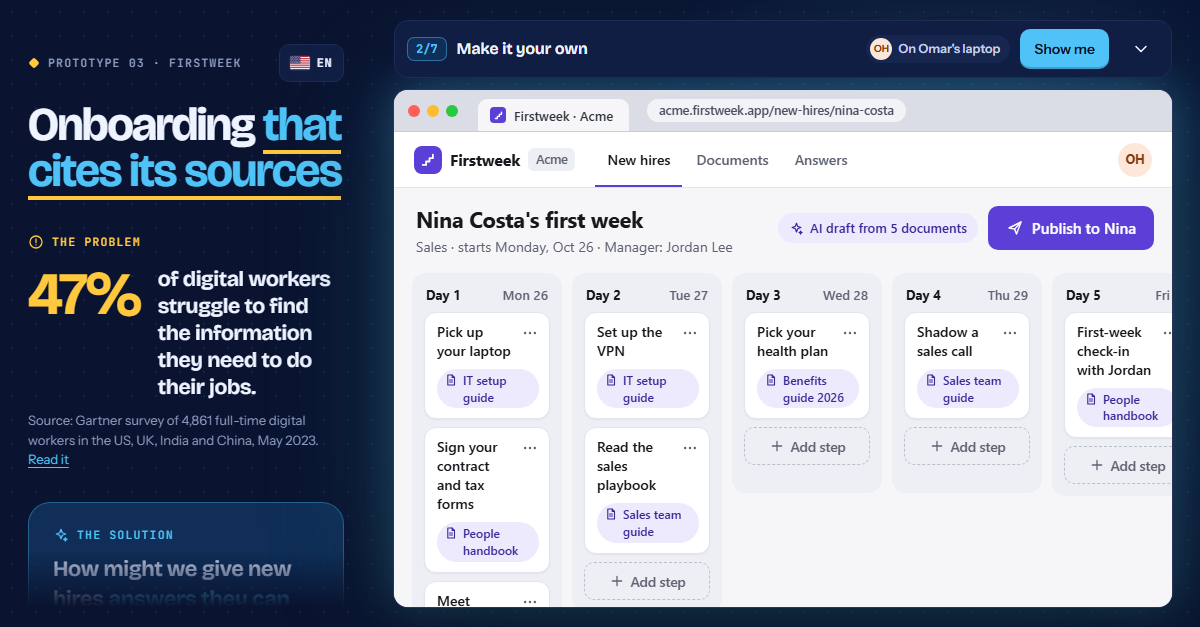
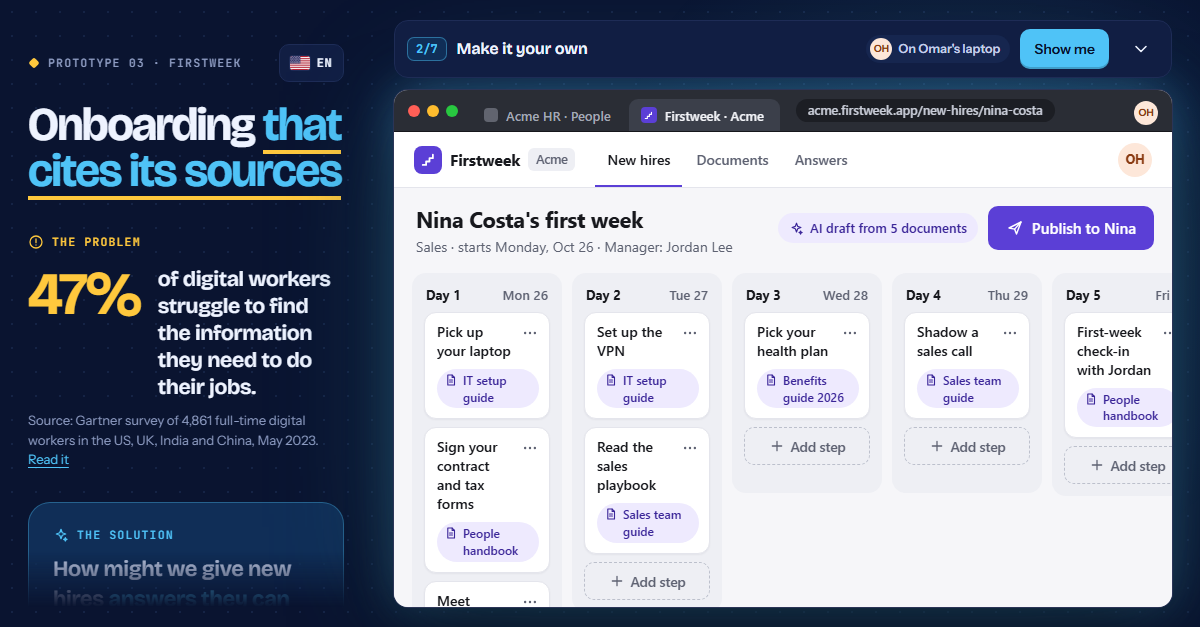
Omar and Nina each get their own computer
Omar's laptop is a dark Mac-style window with Acme's HR tab open; Nina's is a
light blue Windows-style one with a welcome tab. Each shows its owner's avatar.
The sample handbook says "the HR portal" instead of a real product name, and
the social image shows the new window.

Changed region(s): [[0.3083, 0.1212, 0.9867, 0.2121]]

diff --git a/index.html b/index.html
@@ -73,15 +73,33 @@ body{overflow:auto;background:radial-gradient(var(--dot) 1px,transparent 1.3px) 
 /* Try it: the window's glow swells once and settles, to say "over here" */
 .browser.look{animation:look 1.3s ease-in-out}
 @keyframes look{35%{box-shadow:0 0 0 2px var(--neon),0 40px 90px rgba(0,0,0,.5),0 0 64px 4px rgba(79,195,247,.7),0 0 160px 10px rgba(79,195,247,.4)}}
-.b-bar{flex:none;display:flex;align-items:flex-end;gap:10px;height:42px;padding:0 14px;background:#DADDE6;border-bottom:1px solid #C9CDD8}
+/* each laptop is its own computer: Omar's a dark Mac-style window, Nina's a light blue Windows-style one,
+   each with its own other tab open and its owner's avatar */
+.browser{--chrome:#DADDE6;--chrome-line:#C9CDD8;--tab-bg:var(--bg);--tab-ink:#30343C;--tab-dim:#5A5F6B;--url-bg:#F2F3F7;--url-ink:#4B4F5C}
+.browser.is-omar{--chrome:#2A2D35;--chrome-line:#16171C;--tab-bg:#3B3F4A;--tab-ink:#F2F3F7;--tab-dim:#A3A8B5;--url-bg:#1C1E24;--url-ink:#C9CDD8}
+.browser.is-nina{--chrome:#DCE6F7;--chrome-line:#C3D1EC;--tab-bg:#FFFFFF;--tab-ink:#1D2A44;--tab-dim:#55627E;--url-bg:#FFFFFF;--url-ink:#3B4A66}
+.b-bar{flex:none;display:flex;align-items:flex-end;gap:10px;height:42px;padding:0 14px;background:var(--chrome);border-bottom:1px solid var(--chrome-line);transition:background-color .4s,border-color .4s}
 .b-dots{display:flex;gap:7px;align-self:center}
 .b-dots i{width:12px;height:12px;border-radius:50%;background:#FF5F57}
 .b-dots i:nth-child(2){background:#FEBC2E}
 .b-dots i:nth-child(3){background:#28C840}
-.b-tab{display:flex;align-items:center;gap:8px;margin-left:10px;height:32px;padding:0 16px 0 12px;border-radius:9px 9px 0 0;background:var(--bg);font:600 13px/1 var(--font);color:#30343C}
+.b-tabs{display:flex;gap:2px;margin-left:4px;min-width:0}
+.b-tab{display:flex;align-items:center;gap:8px;height:32px;padding:0 16px 0 12px;border-radius:9px 9px 0 0;background:var(--tab-bg);font:600 13px/1 var(--font);color:var(--tab-ink);white-space:nowrap}
+.b-tab.dim{background:transparent;color:var(--tab-dim);font-weight:500}
 .b-tab .mini-logo{display:grid;place-items:center;width:16px;height:16px;border-radius:4px;background:var(--brand);color:#fff}
 .b-tab .mini-logo svg{width:11px;height:11px}
-.b-url{align-self:center;margin-left:8px;padding:5px 12px;border-radius:999px;background:#F2F3F7;font:500 12.5px/1 var(--font);color:#4B4F5C;white-space:nowrap;overflow:hidden;text-overflow:ellipsis;min-width:0}
+.b-tab .tab-ic{width:14px;height:14px;border-radius:4px;background:currentColor;opacity:.45}
+.b-url{align-self:center;margin-left:6px;padding:5px 12px;border-radius:999px;background:var(--url-bg);font:500 12.5px/1 var(--font);color:var(--url-ink);white-space:nowrap;overflow:hidden;text-overflow:ellipsis;min-width:0}
+.b-who{align-self:center;margin-left:auto}
+.b-who .mini-av{width:24px;height:24px}
+/* Windows-style controls: minimize, maximize, close */
+.b-win{display:flex;align-self:stretch;margin:0 -14px 0 0}
+.b-win i{position:relative;width:42px;color:var(--tab-dim)}
+.b-win i::before,.b-win i::after{content:"";position:absolute;left:50%;top:50%;transform:translate(-50%,-50%)}
+.b-win .min::before{width:10px;height:1.5px;background:currentColor}
+.b-win .max::before{width:9px;height:9px;border:1.5px solid currentColor;border-radius:1px}
+.b-win .x::before,.b-win .x::after{width:12px;height:1.5px;background:currentColor;transform:translate(-50%,-50%) rotate(45deg)}
+.b-win .x::after{transform:translate(-50%,-50%) rotate(-45deg)}
 .screen{position:relative;flex:1;min-height:0;overflow:hidden;background:var(--bg);color:var(--ink);font:15px/1.5 var(--font);container:app/inline-size}
 
 /* ================= Context (left) ================= */
@@ -573,7 +591,7 @@ mark{padding:1px 2px;border-radius:3px;background:var(--brand-soft);color:inheri
   <main class="stage" id="stage">
     <aside class="guide" id="guide" aria-label="How to try this prototype"></aside>
     <div class="browser" id="browser">
-      <div class="b-bar" aria-hidden="true"><span class="b-dots"><i></i><i></i><i></i></span><span class="b-tab"><span class="mini-logo"><svg viewBox="0 0 24 24" fill="none" stroke="currentColor" stroke-width="3" stroke-linecap="round" stroke-linejoin="round"><path d="M5 18.5h4.5V14H14V9.5h4.5V5"/></svg></span>Firstweek · Acme</span><span class="b-url" id="b-url">acme.firstweek.app/new-hires/nina-costa</span></div>
+      <div class="b-bar" id="b-bar" aria-hidden="true"></div>
       <div class="screen" id="screen">
         <div class="app" id="app" role="region" aria-label="Firstweek"></div>
         <div class="toast" id="toast" aria-hidden="true"><svg class="i" viewBox="0 0 24 24" aria-hidden="true"><path d="M5 12.5l4.5 4.5L19 7.5"/></svg><span></span></div>
@@ -655,7 +673,7 @@ const STR = {
     srcTitle: 'Where this step came from', backToDocs: 'All documents', srcNote: 'The AI wrote this step from this passage. Edit the step and the document stays as it is.',
     s_laptop: 'Pick up your laptop', s_contract: 'Sign your contract and tax forms', s_meet: 'Meet Jordan, your manager', s_vpn: 'Set up the VPN', s_playbook: 'Read the sales playbook', s_health: 'Pick your health plan', s_shadow: 'Shadow a sales call', s_checkin: 'First-week check-in with Jordan',
     doc_handbook: 'People handbook', doc_vacation: 'Vacation policy update', doc_it: 'IT setup guide', doc_benefits: 'Benefits guide 2026', doc_sales: 'Sales team guide',
-    h_contract: 'Your first day', p_contract: 'On your first day, sign your employment contract and tax forms in Workday. Your People partner sends the links before you start.',
+    h_contract: 'Your first day', p_contract: 'On your first day, sign your employment contract and tax forms in the HR portal. Your People partner sends the links before you start.',
     h_vacation: 'Vacation', p_vac_old: 'Full-time employees get 15 vacation days a year, plus public holidays.',
     h_checkin: 'Your first week', p_checkin: 'At the end of the first week, new hires meet their manager to talk about what is working and what comes next.',
     h_dogs: 'Dogs at the office', p_dogs: 'Dogs are welcome in the office on Fridays, if your team agrees. Ask the office manager about the dog-friendly floor.',
@@ -688,6 +706,7 @@ const STR = {
     jFrom: 'Jordan Lee · a person, not a document', jReply: 'Yes, on Fridays, if your team agrees. Ask the office manager about the dog-friendly floor.',
     jReplyGeneric: 'Good question. Let me find out, and I’ll get back to you today.', jToast: '{manager} answered.',
     docSource: 'Source', docClose: 'Close the document', citedTag: 'The part the answer used',
+    tabHr: 'Acme HR · People', tabWelcome: 'Welcome to Acme!',
     switchOmar: "Omar's laptop", switchNina: "Nina's laptop", whenMon: 'Monday, Oct 26 · 9:02 AM', whenLater: 'Monday, Oct 26 · 9:20 AM',
     close: 'Close'
   },
@@ -736,7 +755,7 @@ const STR = {
     srcTitle: 'De onde veio esta etapa', backToDocs: 'Todos os documentos', srcNote: 'A IA escreveu esta etapa a partir deste trecho. Se você editar a etapa, o documento continua igual.',
     s_laptop: 'Retirar o notebook', s_contract: 'Assinar o contrato e os documentos fiscais', s_meet: 'Conhecer o Jordan, seu gestor', s_vpn: 'Configurar a VPN', s_playbook: 'Ler o playbook de vendas', s_health: 'Escolher o plano de saúde', s_shadow: 'Acompanhar uma ligação de vendas', s_checkin: 'Conversa de fim de semana com o Jordan',
     doc_handbook: 'Manual de Pessoas', doc_vacation: 'Atualização da política de férias', doc_it: 'Guia de configuração de TI', doc_benefits: 'Guia de benefícios 2026', doc_sales: 'Guia do time de vendas',
-    h_contract: 'Seu primeiro dia', p_contract: 'No primeiro dia, assine o contrato de trabalho e os documentos fiscais no Workday. Sua pessoa de referência em Pessoas manda os links antes de você começar.',
+    h_contract: 'Seu primeiro dia', p_contract: 'No primeiro dia, assine o contrato de trabalho e os documentos fiscais no portal de RH. Sua pessoa de referência em Pessoas manda os links antes de você começar.',
     h_vacation: 'Férias', p_vac_old: 'Funcionários em tempo integral têm 15 dias de férias por ano, além dos feriados.',
     h_checkin: 'Sua primeira semana', p_checkin: 'No fim da primeira semana, quem chegou conversa com o gestor sobre o que está funcionando e o que vem a seguir.',
     h_dogs: 'Cachorros no escritório', p_dogs: 'Cachorros são bem-vindos no escritório às sextas, se o seu time concordar. Fale com a gerência do escritório sobre o andar que aceita cachorros.',
@@ -769,6 +788,7 @@ const STR = {
     jFrom: 'Jordan Lee · uma pessoa, não um documento', jReply: 'Pode sim, às sextas, se o seu time concordar. Fale com a gerência do escritório sobre o andar que aceita cachorros.',
     jReplyGeneric: 'Boa pergunta. Vou descobrir e te respondo hoje.', jToast: '{manager} respondeu.',
     docSource: 'Fonte', docClose: 'Fechar o documento', citedTag: 'O trecho que a resposta usou',
+    tabHr: 'RH da Acme · Pessoas', tabWelcome: 'Boas-vindas à Acme!',
     switchOmar: 'Notebook do Omar', switchNina: 'Notebook da Nina', whenMon: 'Segunda, 26 out · 9h02', whenLater: 'Segunda, 26 out · 9h20',
     close: 'Fechar'
   }
@@ -1302,7 +1322,19 @@ function renderApp() {
   const f = (state.focus && app.querySelector(state.focus)) || (fk && app.querySelector(fk));
   state.focus = null;
   if (f) f.focus({ preventScroll: true });
-  $('#b-url').textContent = state.role === 'omar' ? 'acme.firstweek.app/new-hires/nina-costa' : 'acme.firstweek.app/my-first-week';
+  renderChrome();
+}
+/* the window around the app says whose computer it is */
+function renderChrome() {
+  const role = state.role, mac = role === 'omar';
+  const b = $('#browser');
+  b.classList.toggle('is-omar', mac); b.classList.toggle('is-nina', !mac);
+  const other = t(mac ? 'tabHr' : 'tabWelcome');
+  $('#b-bar').innerHTML = `${mac ? '<span class="b-dots"><i></i><i></i><i></i></span>' : ''}
+    <span class="b-tabs"><span class="b-tab dim"><span class="tab-ic"></span>${esc(other)}</span><span class="b-tab"><span class="mini-logo">${LOGO}</span>Firstweek · Acme</span></span>
+    <span class="b-url">${mac ? 'acme.firstweek.app/new-hires/nina-costa' : 'acme.firstweek.app/my-first-week'}</span>
+    <span class="b-who"><span class="mini-av${mac ? '' : ' nina'}">${PEOPLE[role].ini}</span></span>
+    ${mac ? '' : '<span class="b-win"><i class="min"></i><i class="max"></i><i class="x"></i></span>'}`;
 }
 function headHTML(role) {
   const p = PEOPLE[role];
